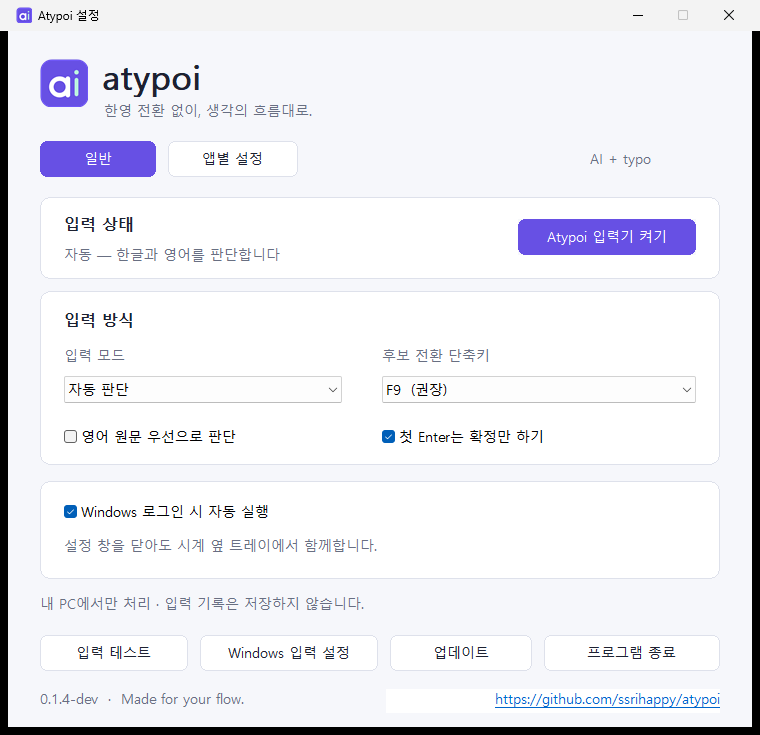
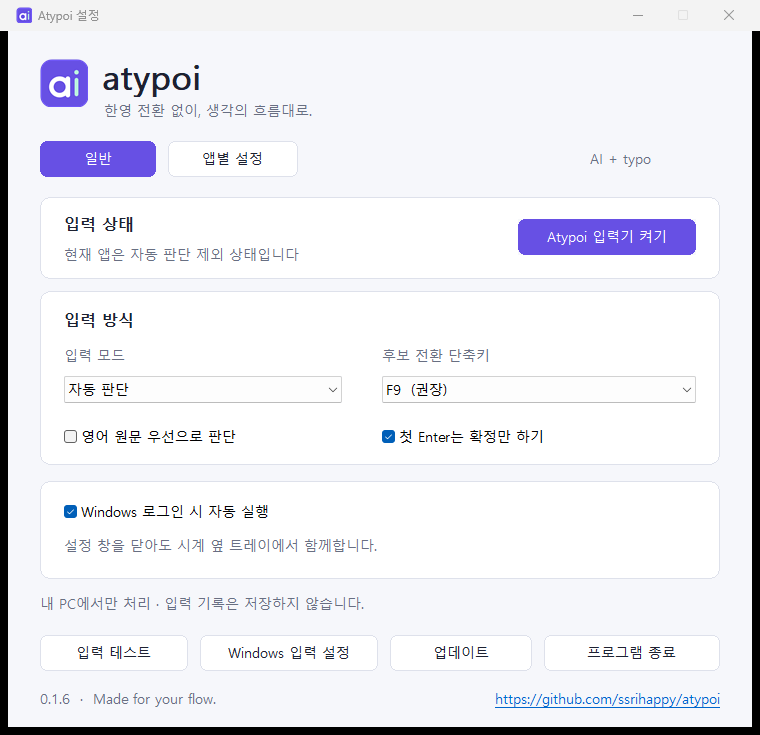
Connect automatic updates to GitHub Releases and blend footer background

diff --git a/src/tray/main.cpp b/src/tray/main.cpp
@@ -38,6 +38,8 @@ bool demoMode=false;
 std::atomic_bool updateCancelled{false};
 std::thread updateWorker;
 update::Result updateResult;
+bool automaticUpdates=true,backgroundUpdate=false;
+ULONGLONG nextUpdateCheck=0;
 std::vector<HWND> controls;
 bool activateProfile() {
     Ptr<ITfInputProcessorProfileMgr> profiles;
@@ -140,8 +142,10 @@ void scaleWindow(HWND window,WPARAM dpi,LPARAM rectPointer) {
     auto rect=reinterpret_cast<RECT*>(rectPointer);SetWindowPos(window,nullptr,rect->left,rect->top,rect->right-rect->left,rect->bottom-rect->top,SWP_NOZORDER|SWP_NOACTIVATE);
 }
 void releaseFonts(HWND window){EnumChildWindows(window,[](HWND child,LPARAM)->BOOL{auto owned=RemovePropW(child,L"Atypoi.Font");if(owned)DeleteObject(owned);return TRUE;},0);RemovePropW(window,L"Atypoi.Dpi");}
-void updateCheck() {
-    if(updateWorker.joinable()){MessageBoxW(mainWindow,L"업데이트를 확인하고 있습니다.",L"업데이트",MB_OK);return;}
+void updateCheck(bool background=false) {
+    if(updateWorker.joinable()){if(!background)MessageBoxW(mainWindow,L"업데이트를 확인하고 있습니다.",L"업데이트",MB_OK);return;}
+    if(!updateResult.path.empty()){if(!background){backgroundUpdate=false;PostMessageW(mainWindow,WM_APP+2,0,0);}return;}
+    backgroundUpdate=background;
     updateCancelled=false;EnableWindow(GetDlgItem(mainWindow,idUpdate),FALSE);
     updateWorker=std::thread([]{
         try{updateResult=update::check(updateCancelled);}
@@ -153,7 +157,7 @@ void menu() {
     HMENU popup=CreatePopupMenu();AppendMenuW(popup,MF_STRING,idPause,config.mode==3?L"자동 판단 다시 켜기":L"일시정지");
     AppendMenuW(popup,MF_STRING,idMode,L"설정 열기");AppendMenuW(popup,MF_STRING,idTest,L"입력 테스트");
     auto app=L"이 앱 등록: "+fileName(foregroundPath);AppendMenuW(popup,MF_STRING|(foregroundPath.empty()?MF_GRAYED:0),idAddForeground,app.c_str());
-    AppendMenuW(popup,MF_SEPARATOR,0,nullptr);AppendMenuW(popup,MF_STRING,idUpdate,L"업데이트 확인");AppendMenuW(popup,MF_STRING,idExit,L"종료");
+    AppendMenuW(popup,MF_SEPARATOR,0,nullptr);AppendMenuW(popup,MF_STRING|(automaticUpdates?MF_CHECKED:0),124,L"자동 업데이트 확인");AppendMenuW(popup,MF_STRING,idUpdate,L"업데이트 확인");AppendMenuW(popup,MF_STRING,idExit,L"종료");
     POINT pos;GetCursorPos(&pos);SetForegroundWindow(mainWindow);auto chosen=TrackPopupMenu(popup,TPM_RETURNCMD|TPM_RIGHTBUTTON,pos.x,pos.y,0,mainWindow,nullptr);DestroyMenu(popup);PostMessageW(mainWindow,WM_NULL,0,0);if(chosen)SendMessageW(mainWindow,WM_COMMAND,chosen,0);
 }
 void preview(HWND window) {
@@ -236,12 +240,21 @@ void createSettings(HWND window) {
     refreshApps();showPage(false);
 }
 LRESULT CALLBACK windowProc(HWND window,UINT message,WPARAM w,LPARAM l) {
+    // Transparent native controls ask the parent to paint their background.
+    if(message==WM_ERASEBKGND){ui::clear(window,reinterpret_cast<HDC>(w));return TRUE;}
     if(message==WM_NOTIFY){auto event=reinterpret_cast<NMHDR*>(l);if(event->idFrom==122&&(event->code==NM_CLICK||event->code==NM_RETURN)){ShellExecuteW(window,L"open",L"https://github.com/ssrihappy/atypoi",nullptr,nullptr,SW_SHOWNORMAL);return 0;}}
     if(message==WM_APP+2){
         if(updateWorker.joinable())updateWorker.join();EnableWindow(GetDlgItem(window,idUpdate),TRUE);
+        if(backgroundUpdate){
+            if(!updateResult.path.empty()){
+                NOTIFYICONDATAW notice{};notice.cbSize=sizeof notice;notice.hWnd=window;notice.uID=1;notice.uFlags=NIF_INFO;notice.dwInfoFlags=NIIF_INFO;
+                wcscpy_s(notice.szInfoTitle,L"Atypoi 업데이트 준비 완료");wcscpy_s(notice.szInfo,L"새 버전을 다운로드했습니다. 알림 또는 설정의 업데이트 버튼을 눌러 설치하세요.");Shell_NotifyIconW(NIM_MODIFY,&notice);
+            }
+            return 0;
+        }
         if(updateResult.path.empty())MessageBoxW(window,updateResult.message.c_str(),L"업데이트",MB_OK|MB_ICONINFORMATION);
         else if(MessageBoxW(window,(updateResult.version+L"\n\n"+updateResult.message).c_str(),L"업데이트",MB_YESNO|MB_ICONQUESTION)==IDYES)ShellExecuteW(window,L"open",updateResult.path.c_str(),nullptr,nullptr,SW_SHOWNORMAL);
-        else DeleteFileW(updateResult.path.c_str());
+        else {DeleteFileW(updateResult.path.c_str());updateResult={};}
         return 0;
     }
     if(message==WM_CTLCOLORSTATIC||message==WM_CTLCOLORBTN||message==WM_CTLCOLOREDIT||message==WM_CTLCOLORLISTBOX)return ui::color(w,l);
@@ -250,9 +263,10 @@ LRESULT CALLBACK windowProc(HWND window,UINT message,WPARAM w,LPARAM l) {
     if(message==WM_CREATE){mainWindow=window;SetPropW(window,L"Atypoi.Dpi",reinterpret_cast<HANDLE>(static_cast<UINT_PTR>(GetDpiForWindow(window))));createSettings(window);SetTimer(window,1,500,nullptr);return 0;}
     if(message==taskbarCreated){tray(true);return 0;}
     if(message==trayMessage) {
-        auto action=LOWORD(l);if(action==WM_CONTEXTMENU||action==WM_RBUTTONUP)menu();else if(action==NIN_SELECT||action==NIN_KEYSELECT||action==WM_LBUTTONDBLCLK)showSettings();return 0;
+        auto action=LOWORD(l);if(action==NIN_BALLOONUSERCLICK)updateCheck();else if(action==WM_CONTEXTMENU||action==WM_RBUTTONUP)menu();else if(action==NIN_SELECT||action==NIN_KEYSELECT||action==WM_LBUTTONDBLCLK)showSettings();return 0;
     }
     if(message==WM_TIMER) {
+        if(!demoMode&&automaticUpdates&&GetTickCount64()>=nextUpdateCheck){nextUpdateCheck=GetTickCount64()+24ULL*60*60*1000;updateCheck(true);}
         InterlockedExchange(&state->heartbeat,static_cast<LONG>(GetTickCount()));
         DWORD pid=0;auto active=GetForegroundWindow();GetWindowThreadProcessId(active,&pid);
         if(pid&&pid!=GetCurrentProcessId()){
@@ -271,6 +285,12 @@ LRESULT CALLBACK windowProc(HWND window,UINT message,WPARAM w,LPARAM l) {
     if(message==WM_COMMAND) {
         int id=LOWORD(w),event=HIWORD(w);
         if(id==120||id==121){showPage(id==121);return 0;}
+        if(id==124){
+            DWORD enabled=automaticUpdates?0:1;
+            if(demoMode||RegSetKeyValueW(HKEY_CURRENT_USER,settingsKey,L"AutomaticUpdates",REG_DWORD,&enabled,sizeof enabled)==ERROR_SUCCESS){automaticUpdates=enabled!=0;nextUpdateCheck=GetTickCount64()+10000;}
+            else MessageBoxW(window,L"자동 업데이트 설정을 저장하지 못했습니다.",L"업데이트",MB_OK|MB_ICONWARNING);
+            return 0;
+        }
         if(id==idMode){if(event==CBN_SELCHANGE){config.mode=static_cast<LONG>(SendMessageW(modeBox,CB_GETCURSEL,0,0));publish();lastStatus=-1;tray();}else showSettings();}
         else if(id==idShortcut&&event==CBN_SELCHANGE){config.shortcut=static_cast<LONG>(SendMessageW(shortcutBox,CB_GETCURSEL,0,0));publish();}
         else if(id==idStrict){config.strict=isChecked(strictBox);publish();}
@@ -321,6 +341,7 @@ int WINAPI wWinMain(HINSTANCE app,HINSTANCE,LPWSTR,int) {
     mapping=CreateFileMappingW(INVALID_HANDLE_VALUE,nullptr,PAGE_READWRITE,0,sizeof(Shared),objectName(L"State").c_str());
     if(!mapping)return 1;state=static_cast<Shared*>(MapViewOfFile(mapping,FILE_MAP_ALL_ACCESS,0,0,sizeof(Shared)));if(!state)return 1;
     config=demoMode?Config{}:loadConfig();if(config.mode==3)config.mode=0;
+    DWORD automatic=1,size=sizeof automatic;RegGetValueW(HKEY_CURRENT_USER,settingsKey,L"AutomaticUpdates",RRF_RT_REG_DWORD,nullptr,&automatic,&size);automaticUpdates=automatic!=0;nextUpdateCheck=GetTickCount64()+10000;
     state->magic=0x41545931;InterlockedExchange(&state->sequence,0);writeConfig(state,config);InterlockedExchange(&state->heartbeat,static_cast<LONG>(GetTickCount()));InterlockedExchange(&state->running,1);
     auto dpi=GetDpiForSystem();font=ui::font(14,FW_NORMAL,dpi);titleFont=ui::font(34,FW_SEMIBOLD,dpi,L"Segoe UI");sectionFont=ui::font(16,FW_BOLD,dpi);
     taskbarCreated=RegisterWindowMessageW(L"TaskbarCreated");

diff --git a/src/win/update.h b/src/win/update.h
@@ -11,9 +11,10 @@
 #include <bcrypt.h>
 
 #ifndef ATYPOI_UPDATE_FEED
-#define ATYPOI_UPDATE_FEED L""
+#define ATYPOI_UPDATE_FEED L"https://github.com/ssrihappy/atypoi/releases/latest/download/update.txt"
 #endif
 namespace atypoi::win::update {
+inline constexpr wchar_t officialFeed[]=L"https://github.com/ssrihappy/atypoi/releases/latest/download/update.txt";
 struct Manifest {std::wstring version,url;std::string sha256;};
 inline bool https(const std::wstring& url){return url.starts_with(L"https://") && url.size()<4096 && url.find_first_of(L"\r\n\t ")==std::wstring::npos;}
 inline Manifest parse(std::string_view input){
@@ -31,10 +32,25 @@ inline Manifest parse(std::string_view input){
     return result;
 }
 inline std::array<unsigned,3> versionParts(const std::wstring& text){
-    std::array<unsigned,3> result{};std::wistringstream stream(text);wchar_t dot=0;
-    if(!(stream>>result[0]>>dot)||dot!=L'.'||!(stream>>result[1]>>dot)||dot!=L'.'||!(stream>>result[2]))throw std::runtime_error("Invalid version");
-    if(stream.peek()!=WEOF&&stream.peek()!=L'-')throw std::runtime_error("Invalid version suffix");return result;
+    std::array<unsigned,3> result{};size_t pos=0;
+    for(size_t part=0;part<3;++part){
+        size_t start=pos;
+        while(pos<text.size()&&text[pos]>=L'0'&&text[pos]<=L'9'){
+            auto digit=static_cast<unsigned>(text[pos++]-L'0');
+            if(result[part]>6553||(result[part]==6553&&digit>5))throw std::runtime_error("Version component exceeds 65535");
+            result[part]=result[part]*10+digit;
+        }
+        if(pos==start||(pos-start>1&&text[start]==L'0'))throw std::runtime_error("Invalid version component");
+        if(part<2&&(pos>=text.size()||text[pos++]!=L'.'))throw std::runtime_error("Invalid version separator");
+    }
+    if(pos!=text.size()&&text.substr(pos)!=L"-dev")throw std::runtime_error("Invalid version suffix");return result;
 }
+inline bool newer(const std::wstring& candidate,const std::wstring& current){auto a=versionParts(candidate),b=versionParts(current);return a>b||(a==b&&current.ends_with(L"-dev")&&!candidate.ends_with(L"-dev"));}
+inline bool official(const Manifest& manifest){
+    versionParts(manifest.version);
+    return !manifest.version.ends_with(L"-dev")&&manifest.url==L"https://github.com/ssrihappy/atypoi/releases/download/v"+manifest.version+L"/Atypoi.Setup.exe";
+}
+inline bool publisherAllowed(const std::string& installed,const std::string& downloaded,bool officialRelease){return installed.empty()?officialRelease:!downloaded.empty()&&installed==downloaded;}
 struct Internet {HINTERNET handle=nullptr;explicit Internet(HINTERNET h):handle(h){}~Internet(){if(handle)WinHttpCloseHandle(handle);}Internet(const Internet&)=delete;};
 inline std::string get(const std::wstring& url,size_t maxBytes,const std::atomic_bool& cancel){
     if(!https(url))throw std::runtime_error("HTTPS required");
@@ -68,18 +84,21 @@ inline std::string signer(const std::wstring& path){
     data.dwStateAction=WTD_STATEACTION_CLOSE;WinVerifyTrust(nullptr,&action,&data);return result;
 }
 struct Result {std::wstring message,path,version;};
-inline Result check(const std::atomic_bool& cancel){
+inline Result check(const std::atomic_bool& cancel,const std::wstring& current=atypoi::win::version){
     if(std::wstring(ATYPOI_UPDATE_FEED).empty())return {L"공개 업데이트 주소가 아직 설정되지 않았습니다. 새 개발용 설치 파일로 업데이트할 수 있습니다.",{},{}};
-    auto ownSigner=signer(modulePath());if(ownSigner.empty())throw std::runtime_error("Installed application has no trusted publisher signature");
     auto manifest=parse(get(ATYPOI_UPDATE_FEED,16384,cancel));
-    if(versionParts(manifest.version)<=versionParts(atypoi::win::version))return {L"현재 최신 버전을 사용하고 있습니다.",{},{}};
+    bool officialRelease=std::wstring(ATYPOI_UPDATE_FEED)==officialFeed&&official(manifest);
+    if(std::wstring(ATYPOI_UPDATE_FEED)==officialFeed&&!officialRelease)throw std::runtime_error("Update is not an official tagged release");
+    if(!newer(manifest.version,current))return {L"현재 최신 버전을 사용하고 있습니다.",{},{}};
+    auto ownSigner=signer(modulePath());
+    if(ownSigner.empty()&&!officialRelease)throw std::runtime_error("Custom update feeds require a trusted publisher signature");
     auto bytes=get(manifest.url,64*1024*1024,cancel);if(sha256(bytes)!=manifest.sha256)throw std::runtime_error("Update SHA256 mismatch");
     wchar_t temp[32768];if(!GetTempPathW(32768,temp))throw std::runtime_error("Temporary folder unavailable");GUID unique;CoCreateGuid(&unique);
     auto path=std::filesystem::path(temp)/(L"Atypoi.Update."+guidString(unique)+L".exe");
     try{
         std::ofstream out(path,std::ios::binary);out.write(bytes.data(),static_cast<std::streamsize>(bytes.size()));out.close();if(!out)throw std::runtime_error("Cannot save update");
-        if(cancel||signer(path.wstring())!=ownSigner)throw std::runtime_error("Update publisher signature mismatch");
+        if(cancel||!publisherAllowed(ownSigner,signer(path.wstring()),officialRelease))throw std::runtime_error("Update publisher signature mismatch");
     }catch(...){std::error_code ignored;std::filesystem::remove(path,ignored);throw;}
-    return {L"새 버전의 파일과 게시자 서명을 확인했습니다. 설치 프로그램을 열까요?",path.wstring(),manifest.version};
+    return {ownSigner.empty()?L"공식 GitHub 릴리스에서 다운로드하고 SHA256을 확인했습니다. 게시자 서명이 없는 설치 파일입니다. 업데이트를 설치할까요?":L"새 버전의 파일과 게시자 서명을 확인했습니다. 업데이트를 설치할까요?",path.wstring(),manifest.version};
 }
 }

diff --git a/tests/tests.cpp b/tests/tests.cpp
@@ -114,6 +114,16 @@ int wmain(){
[1 lines of base64/hex data omitted]
         auto manifest=update::parse("version=0.2.0\nurl=https://example.com/setup.exe\nsha256="+std::string(64,'a')+"\n");check(manifest.version==L"0.2.0","update manifest parser");
         check(update::versionParts(L"0.2.0")>update::versionParts(L"0.1.0-dev"),"update version ordering");
+        check(update::newer(L"0.1.6",L"0.1.6-dev"),"stable release upgrades same-version development build");
+        check(!update::newer(L"0.1.6",L"0.1.6")&&!update::newer(L"0.1.5",L"0.1.6"),"no repeated update or downgrade");
+        for(auto invalid:{L"1.2.3.4",L"1.2.3-evil",L"1.2.3/other",L"-1.2.3",L"1.2.65536",L"01.2.3",L"1. 2.3",L"1.2."}){bool rejected=false;try{update::versionParts(invalid);}catch(...){rejected=true;}check(rejected,"malformed update version rejected");}
+        auto officialManifest=update::parse("version=0.1.6\nurl=https://github.com/ssrihappy/atypoi/releases/download/v0.1.6/Atypoi.Setup.exe\nsha256="+std::string(64,'a')+"\n");
+        check(update::official(officialManifest),"official versioned installer accepted");
+        for(auto url:{L"https://github.com/other/atypoi/releases/download/v0.1.6/Atypoi.Setup.exe",L"https://github.com/ssrihappy/atypoi/releases/download/v0.1.5/Atypoi.Setup.exe",L"https://github.com/ssrihappy/atypoi/releases/download/v0.1.6/Atypoi.Setup.exe?other",L"https://github.com.evil.invalid/ssrihappy/atypoi/releases/download/v0.1.6/Atypoi.Setup.exe"}){officialManifest.url=url;check(!update::official(officialManifest),"unofficial update installer rejected");}
+        check(update::publisherAllowed("","",true),"unsigned official GitHub release allowed with user consent");
+        check(!update::publisherAllowed("","",false),"unsigned custom feed rejected");
+        check(update::publisherAllowed("trusted","trusted",true),"matching publisher accepted");
+        check(!update::publisherAllowed("trusted","",true)&&!update::publisherAllowed("trusted","different",true),"signed installations reject unsigned or different publisher updates");
         for(auto invalid:{"version=0.2.0\nurl=http://example.com/a\nsha256=abc", "version=0.2.0\nversion=0.3.0\nurl=https://example.com/a\nsha256=abc"}) {bool rejected=false;try{update::parse(invalid);}catch(...){rejected=true;}check(rejected,"invalid update feed rejected");}
         const std::vector<std::pair<std::string,std::wstring>> compositions={
             {"dkssud",L"안녕"},{"gksrmf",L"한글"},{"gksrnr",L"한국"},{"rkqtk",L"갑사"},{"rkqt",L"값"},{"rkqtdl",L"값이"},

diff --git a/src/win/platform.h b/src/win/platform.h
@@ -25,7 +25,7 @@ inline constexpr GUID uiLessCategory={0x49d2f9cf,0x1f5e,0x11d7,{0xa6,0xd3,0x00,0
 inline constexpr LANGID languageId=0x0412;
 inline constexpr wchar_t appClass[]=L"Atypoi.Tray.1";
 inline constexpr wchar_t settingsKey[]=L"Software\\Atypoi";
-inline constexpr wchar_t version[]=L"0.1.5-dev";
+inline constexpr wchar_t version[]=L"0.1.6";
 inline constexpr size_t maxApps=32;
 
 template<class T> class Ptr {

diff --git a/docs/PUBLISHING.md b/docs/PUBLISHING.md
@@ -41,4 +41,25 @@ git push -u origin main
 
 저장소 첫 화면은 `README.md`, 상세 안내는 `docs/USAGE.md`입니다. 스크린샷과 타이핑 GIF는 `docs/images`의 상대 경로로 연결되어 GitHub에서도 표시됩니다. 소셜 미리보기 이미지는 `assets/brand/social-preview.png`를 저장소 설정에 사용할 수 있습니다.
 
-GitHub Actions는 빌드·검사를 수행하고 개발 설치 파일과 소스 ZIP을 아티팩트로 보관합니다. 릴리스 게시와 서명은 자동 실행하지 않습니다. 프로젝트 고유의 MIT 라이선스와 모든 제3자 고지를 함께 배포하세요.
+GitHub Actions는 일반 커밋과 PR에서 빌드·검사를 수행하고 설치 파일과 소스 ZIP을 보관합니다. 소스 버전과 일치하는 안정 버전 태그를 push하면 검사에 통과한 동일 아티팩트를 공개 릴리스로 게시합니다. 프로젝트 고유의 MIT 라이선스와 모든 제3자 고지를 함께 배포하세요.
+
+## 다음 버전 자동 배포
+
+1. `src/win/platform.h`, `resources/app.manifest`, `resources/version.rc`와 문서의 버전을 올립니다. 예: `0.1.7`.
+2. 변경을 검토하고 `main`에 push합니다.
+3. 해당 커밋에 태그를 붙여 push합니다.
+
+```powershell
+git tag v0.1.7
+git push origin v0.1.7
+```
+
+태그용 GitHub Actions의 빌드·테스트·패키징이 모두 성공하면 `scripts/publish-release.ps1`가 설치 파일, 소스 ZIP, 해시 목록, `update.txt`를 초안 릴리스에 함께 업로드하고 최신 릴리스로 공개합니다. 소스 버전과 태그가 다르거나 기존 릴리스가 있으면 중단합니다. 기존 파일을 덮어쓰지 말고 새 버전을 만드세요. GitHub Actions의 `GITHUB_TOKEN`만 사용하므로 개인 액세스 토큰을 저장소에 추가할 필요가 없습니다.
+
+기본 업데이트 주소:
+
+`https://github.com/ssrihappy/atypoi/releases/latest/download/update.txt`
+
+`update.txt`에는 버전, 해당 태그의 고정 설치 파일 URL, SHA256이 들어갑니다. 일반 코드 push와 사전 릴리스는 사용자 업데이트 대상이 아닙니다. 공개 릴리스 게시 후 앱이 다음 확인 시점에 감지합니다. 지금 확인하려면 설정의 **업데이트**를 누르세요.
+
+현재 서명 없는 공개 빌드는 공식 저장소의 정확한 버전별 설치 주소와 HTTPS·SHA256을 확인하고 설치 전 사용자의 승인을 받습니다. 이는 게시자 서명 검증과 다릅니다. 서명된 앱은 같은 게시자 서명까지 검사하며, 사용자 지정 업데이트 주소는 신뢰된 서명이 있어야 사용할 수 있습니다. 인증서와 개인키는 저장소에 넣지 마세요.

diff --git a/docs/IMPLEMENTATION.md b/docs/IMPLEMENTATION.md
@@ -1,6 +1,6 @@
 # Atypoi 개발 빌드 구현과 검증 상태
 
-버전: 0.1.5-dev · 대상: Windows x64
+버전: 0.1.6 · 대상: Windows x64
 
 설치 프로그램을 포함한 개발 빌드이며, 공개 출시 완료 기준 전체를 충족한 정식 버전은 아니다. 실제 입력 검증 범위와 재현 방법은 [INPUT-VERIFICATION.md](INPUT-VERIFICATION.md)에 기록한다.
 
@@ -29,7 +29,7 @@
 | FR-08 보호·앱 정책 | 경로별 정책, 읽기 전용·암호·불명확 컨텍스트 제외, 구조 토큰 보호 | 네이티브 암호·읽기 전용 컨트롤 및 정책 검사 통과 |
 | FR-09 설정·미리보기 | 설정 저장·손상 값 보존, 샘플 판단, 로컬 처리 | 화면 검증 및 미리보기 검사 통과 |
 | 설치·제거 | 버전별 설치, 등록 실패 복구, 사용자 프로필 활성화, 사용 중 파일 제거 예약 | 실제 업그레이드 설치와 OS의 DLL 로딩 확인. 제거·재부팅 시험은 미실행 |
-| 업데이트 | HTTPS·크기 제한·SHA256·현재 게시자 서명 일치, 사용자가 설치 선택 | 파싱·해시 검사 통과. 실제 배포 서버·인증서가 없어 종단 간 시험 미실행 |
+| 업데이트 | 공식 GitHub 최신 릴리스, 시작 후·24시간 간격 확인, 자동 다운로드·SHA256, 설치 승인 | 버전·URL·해시·서명 정책 회귀 검사. 서명된 설치본은 같은 게시자만 허용 |
 | FR-10 P1 | 확정 후 재변환·개인화 학습 | 후속 범위로 미구현 |
 
 일반·앱별 설정, 별도 입력 테스트 창과 설치 UI로 구성한다. 별도 Electron/.NET 런타임 없이 실행하는 네이티브 Windows UI다. 개인정보 안내·버전·GitHub 링크를 창에서 확인할 수 있다.
@@ -56,7 +56,7 @@ TSF 통합 시험에서는 시스템 등록을 요구하는 키 이벤트 구독
 4. 커스텀 입력란의 InputScope, 관리자 앱, 앱 컨테이너, 선택 영역·Undo·붙여넣기 호환성 시험. 보안 여부를 확인하지 못하면 변환을 중지한다.
 5. 독립 평가 데이터에 대한 PRD 정확도·영어 오변환·한국어 재현율 측정과 튜닝. macOS 원본의 수치를 Windows 성능으로 사용하지 않았다.
 6. 8시간 지속 입력, 다중 모니터·고대비·100/150/200% DPI, 실사용 CPU·메모리 측정.
-7. 실제 HTTPS 배포 주소와 서명된 다음 버전으로 업데이트 검사. 인증서 교체 정책은 별도 필요하다.
+7. GitHub 공개 릴리스는 `update.txt`와 설치 파일을 함께 게시한다. 서명 도입·인증서 교체 정책은 별도 필요하다.
 
 ## 재현 명령
 

diff --git a/docs/USAGE.md b/docs/USAGE.md
@@ -83,7 +83,11 @@ sunlightdl tjsaudgkrp leaffmf gkfxrh dlTdjTek
 
 창의 닫기 버튼은 설정 창을 숨깁니다. 시계 옆 아이콘을 클릭하면 설정을 다시 열고, 우클릭 메뉴에서 일시정지·입력 테스트·종료를 선택할 수 있습니다. 아이콘이 보이지 않으면 Windows 트레이의 숨겨진 아이콘 영역을 확인하세요.
 
-**업데이트**는 사용자가 누를 때만 확인합니다. 현재 기본 개발 빌드는 업데이트 서버가 지정되어 있지 않아 네트워크 요청 없이 안내합니다. 프로젝트의 새 설치 파일로 업그레이드한 뒤에는 입력하던 앱을 다시 열어 주세요. 앱이 열린 동안에는 이전 입력기 DLL을 계속 사용할 수 있습니다.
+0.1.6부터 앱 실행 10초 후와 실행 중 24시간마다 GitHub의 최신 공개 릴리스를 확인합니다. 새 버전이 있으면 자동 다운로드하고 검증한 뒤 알림을 표시합니다. 알림이나 설정의 **업데이트** 버튼을 누르면 설치 여부를 묻습니다. 승인하면 설치 프로그램이 열리고 Windows 관리자 권한 확인이 나타날 수 있습니다. 인터넷 연결 실패는 입력 동작에 영향을 주지 않으며 자동 확인 실패는 팝업으로 표시하지 않습니다.
+
+트레이 아이콘을 오른쪽 클릭해 **자동 업데이트 확인**을 끌 수 있습니다. **업데이트 확인**은 언제든 수동으로 실행할 수 있습니다. 설치 파일은 현재 게시자 서명이 없으며, 공식 GitHub의 버전별 주소와 SHA256으로 확인합니다. 서명된 설치본은 같은 게시자 서명도 검사합니다.
+
+0.1.5-dev 이하에서는 이번 설치 파일을 한 번 직접 실행해야 합니다. 이후 공개 릴리스부터 자동 확인할 수 있습니다. 업데이트 후에는 입력하던 앱을 완전히 종료하고 다시 열어 주세요. 앱이 열린 동안에는 이전 입력기 DLL을 계속 사용할 수 있습니다.
 
 설정에 **이전 입력기 사용 중**이 표시되면, 해당 앱을 완전히 종료한 뒤 다시 실행하세요. 설정의 **Atypoi 입력기 켜기**만 다시 눌러서는 이미 로드된 DLL이 교체되지 않습니다. 백그라운드에 남는 브라우저·메신저도 완전히 종료해야 합니다. 앱을 재시작하기 어려우면 문서를 저장하고 Windows에서 로그아웃 후 다시 로그인할 수 있습니다.
 

diff --git a/README.md b/README.md
@@ -25,7 +25,9 @@
 3. **Atypoi 입력기 켜기**를 누르거나 `Win + Space`에서 Atypoi를 선택합니다.
 4. **입력 테스트**에서 직접 입력해 보세요. 다른 프로그램은 **앱별 설정**에서 추가할 수 있습니다.
 
-현재 버전은 **0.1.5-dev**, Windows x64용 개발 빌드입니다. 기본 생성 설치 파일에는 게시자 서명이 없습니다.
+현재 버전은 **0.1.6**, Windows x64용 공개 빌드입니다. 설치 파일에는 게시자 서명이 없습니다.
+
+앱은 GitHub의 최신 공개 릴리스를 자동으로 확인하고 다운로드합니다. 알림을 눌러 설치를 승인할 수 있으며, 트레이 메뉴에서 자동 확인을 끌 수 있습니다. 0.1.5-dev 이하 사용자는 이번 설치 파일을 한 번 직접 실행해 주세요.
 
 <p align="center"><img src="docs/images/settings.png" width="660" alt="일반 설정과 우하단 GitHub 링크"></p>
 
@@ -78,7 +80,7 @@ powershell -ExecutionPolicy Bypass -File scripts/package.ps1
 
 [기여 안내](CONTRIBUTING.md) · [사용 방법](docs/USAGE.md) · [개인정보 처리](docs/PRIVACY.md) · [GitHub 공개 방법](docs/PUBLISHING.md) · [브랜드 가이드](docs/BRAND.md)
 
-GitHub Actions는 빌드·검사 후 서명되지 않은 개발 설치 파일과 소스 ZIP을 아티팩트로 보관합니다. 릴리스를 자동으로 게시하지 않습니다. 공개용 소스는 다음 명령으로 점검·내보낼 수 있습니다.
+GitHub Actions는 빌드·검사 후 설치 파일과 소스 ZIP을 보관합니다. 소스 버전과 일치하는 안정 버전 태그(예: `v0.1.6`)를 push하면 검사를 통과한 파일로 GitHub Release와 업데이트 피드를 함께 게시합니다. 일반 커밋과 PR은 공개 릴리스를 만들지 않습니다. 공개용 소스는 다음 명령으로 점검·내보낼 수 있습니다.
 
 ```powershell
 powershell -ExecutionPolicy Bypass -File scripts/export-source.ps1

diff --git a/docs/PRIVACY.md b/docs/PRIVACY.md
@@ -12,7 +12,11 @@
 
 ## 네트워크 동작
 
-기본 개발 빌드는 업데이트 서버가 지정되어 있지 않습니다. 서버를 지정해 빌드한 경우에도 사용자가 **업데이트**를 눌렀을 때만 확인합니다. GitHub 링크를 누르면 기본 브라우저로 프로젝트 저장소를 엽니다. 이때 입력 중인 내용을 URL에 붙이지 않습니다.
+0.1.6부터 실행 10초 후와 실행 중 24시간마다 공식 GitHub Releases의 `update.txt`를 확인합니다. 새 버전이 있으면 설치 파일을 다운로드하고 SHA256을 검사한 뒤 알립니다. 설치는 사용자가 승인해야 진행합니다. 트레이 메뉴의 **자동 업데이트 확인**을 끄면 주기적인 요청을 중단하며, **업데이트** 버튼으로 수동 확인할 수 있습니다. `--demo`에서는 자동 확인하지 않습니다.
+
+요청 대상은 `github.com/ssrihappy/atypoi/releases/latest/download/update.txt`와 해당 버전의 설치 파일이며, GitHub가 다운로드용 호스트로 연결할 수 있습니다. GitHub에는 통상적인 접속 정보(IP·User-Agent)가 전달됩니다. 키 입력·문서·앱 목록·개인 설정은 보내지 않습니다. 다운로드 파일은 사용자 임시 폴더에 저장하며 앱 종료 시 정리를 시도합니다.
+
+GitHub 링크를 누르면 기본 브라우저로 프로젝트 저장소를 엽니다. 이때 입력 중인 내용을 URL에 붙이지 않습니다.
 
 ## 공개 자료의 범위
 
